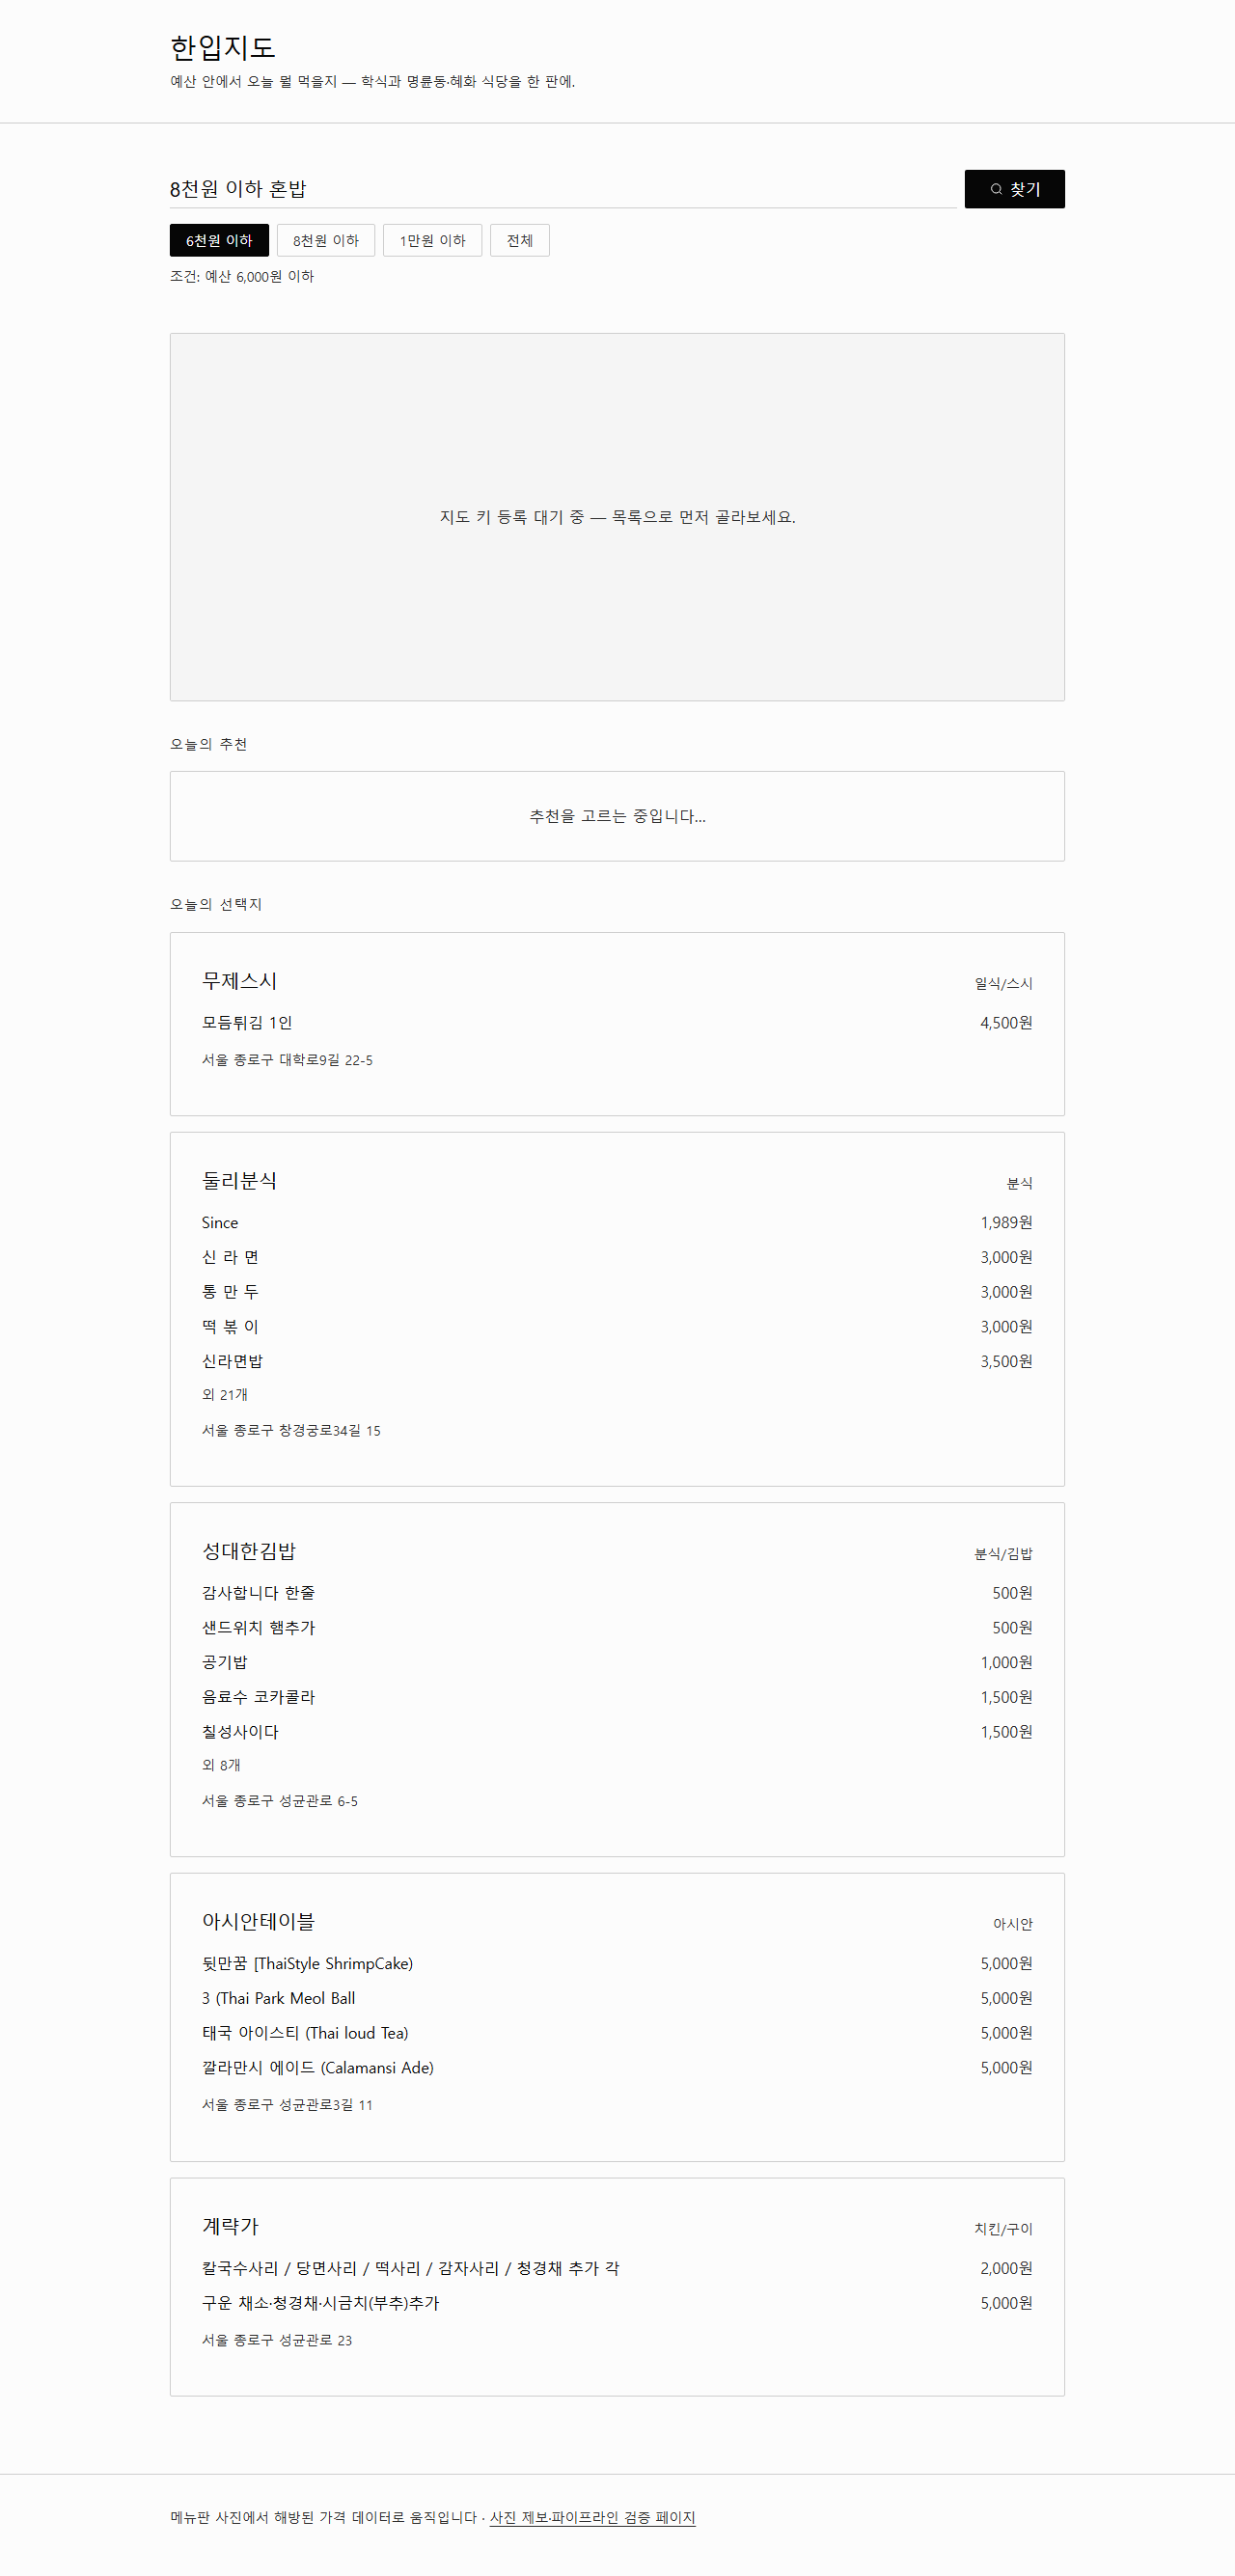
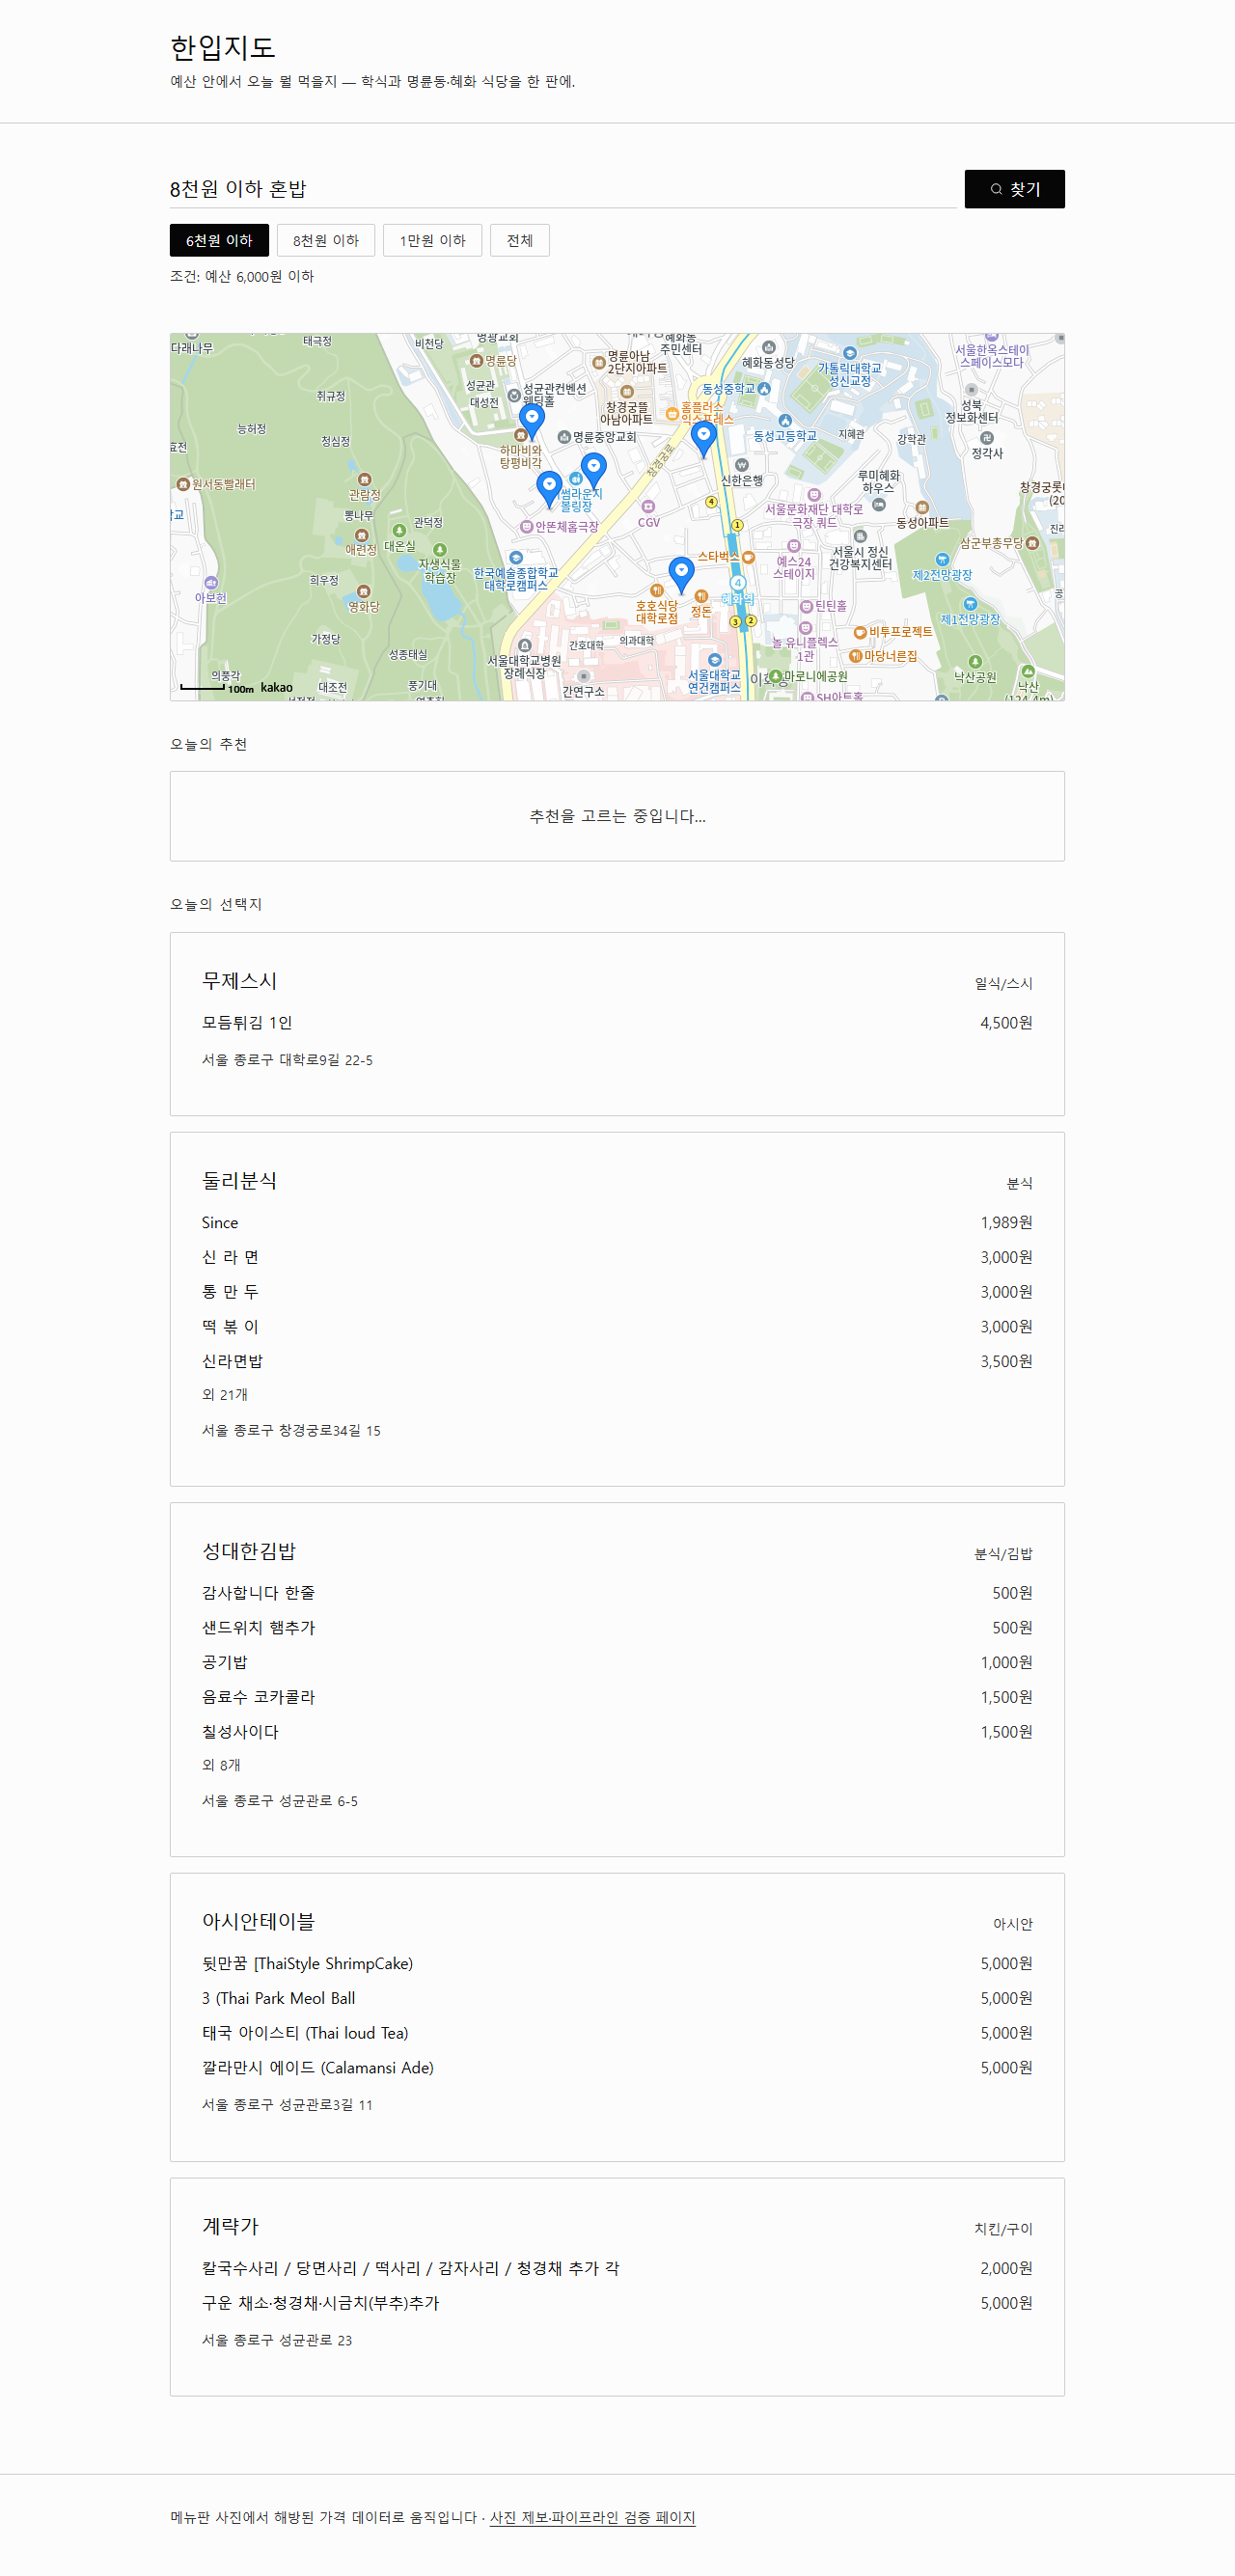
fix(DR2): 지도 활성화 후속 — hidden 레이아웃 결함 수정·마커 setBounds
카카오 JS SDK 도메인 등록(콘솔 직접 조작) 후 실측에서 로딩 문구 잔존 발견. 재배포·smoke 9/9.

Changed region(s): [[0.125, 0.1243, 0.875, 0.2798]]

diff --git a/public/index.html b/public/index.html
@@ -81,6 +81,7 @@ header .sub{color:var(--text-muted);font-size:var(--text-sm);margin-top:var(--sp
   height:380px;display:flex;align-items:center;justify-content:center;
   color:var(--text-muted);background:var(--surface-muted);text-align:center;padding:var(--space-4);
 }
+.map-empty[hidden]{display:none}  /* hidden 속성이 display:flex 에 밀리지 않도록 */
 /* ── results ── */
 .results{padding:var(--space-8) 0 var(--space-16)}
 .card{
@@ -204,13 +205,18 @@ async function loadMap() {
 function renderMarkers() {
   if (!MAP || !window.kakao) return;
   MARKERS.forEach((m) => m.setMap(null)); MARKERS = [];
+  const bounds = new kakao.maps.LatLngBounds();
+  let any = false;
   for (const r of visibleRestaurants()) {
     if (!r.lat || !r.lng) continue;
-    const marker = new kakao.maps.Marker({ map: MAP, position: new kakao.maps.LatLng(r.lat, r.lng), title: r.name });
+    const pos = new kakao.maps.LatLng(r.lat, r.lng);
+    const marker = new kakao.maps.Marker({ map: MAP, position: pos, title: r.name });
     const iw = new kakao.maps.InfoWindow({ content: `<div style="padding:4px 8px;font-size:13px">${r.name}</div>` });
     kakao.maps.event.addListener(marker, "click", () => iw.open(MAP, marker));
     MARKERS.push(marker);
+    bounds.extend(pos); any = true;
   }
+  if (any) MAP.setBounds(bounds); // 결과가 전부 보이도록 — 필터 바뀔 때마다 재조정
 }
 
 /* ── 검색 ── */

diff --git a/plans/2026-07-19-dr2-personal-service.md b/plans/2026-07-19-dr2-personal-service.md
@@ -81,3 +81,4 @@ Status: approved
 - 지도 제공자: 카카오맵 JS 확정 (2026-07-19 사용자 — ADR-0002. Naver ID 미발급 실측, 지오코딩과 공급자 일관. 키는 KAKAO_JS_KEY env→/api/config 런타임 주입, 도메인 등록은 사용자)
 - 2026-07-19 step-3: 전용 groundedness-check 모델 제공 종료 실측(/v1/models) → solar-mini 독립 판정자로 같은 계약 구현(사용자 추인 대기 — 억지 적용 아님·정직 서사는 presentation 메모). 실관측: 3/3 grounded, notGrounded 시 템플릿 교체 경로.
 - 2026-07-19 step-5 dogfood finding(사용자): UI 다듬기 필요·페이지 분리(랜딩/설명/서비스 3페이지)·컬러/디자인 방향·실사 이미지 활용 결정 필요 → 디자인 브리프 절차로 승격. 전략층 확정: 톤=힙·에너지·대학가 / 구조=랜딩+설명+서비스 3페이지 / 이미지=실사 적극(히어로·카드). 시각층은 Brief Studio(localhost:8791)로 사용자 선택 대기.
+- 2026-07-19 도메인: sixsense.askewly.com — Vercel 등록 + Cloudflare CNAME(cname.vercel-dns.com, proxied=false) 생성. DNS 전파 대기.

diff --git a/verification/matrix.md b/verification/matrix.md
@@ -34,3 +34,4 @@
 
 ## smoke 기록 (추가)
 - 2026-07-19 도메인: sixsense.askewly.com Vercel 등록·verified. KAKAO_JS_KEY env 등록 완료 — 카카오 콘솔 Web 플랫폼 도메인 등록(sixsense.askewly.com) 후 지도 활성 예정(현재 ERR_BLOCKED_BY_ORB, graceful 폴백 동작).
+- 2026-07-19 지도 활성: 카카오 콘솔 JS SDK 도메인 등록(sixsense.askewly.com·staging.vercel.app) — 브라우저 실측 kakao.maps 로드·타일 26·마커 렌더. 발견 결함: .map-empty[hidden] 이 display:flex 에 밀려 로딩 문구 잔존 → CSS 수정 + setBounds 로 결과 전체 뷰. 재배포 후 SMOKE 9/9 PASS.